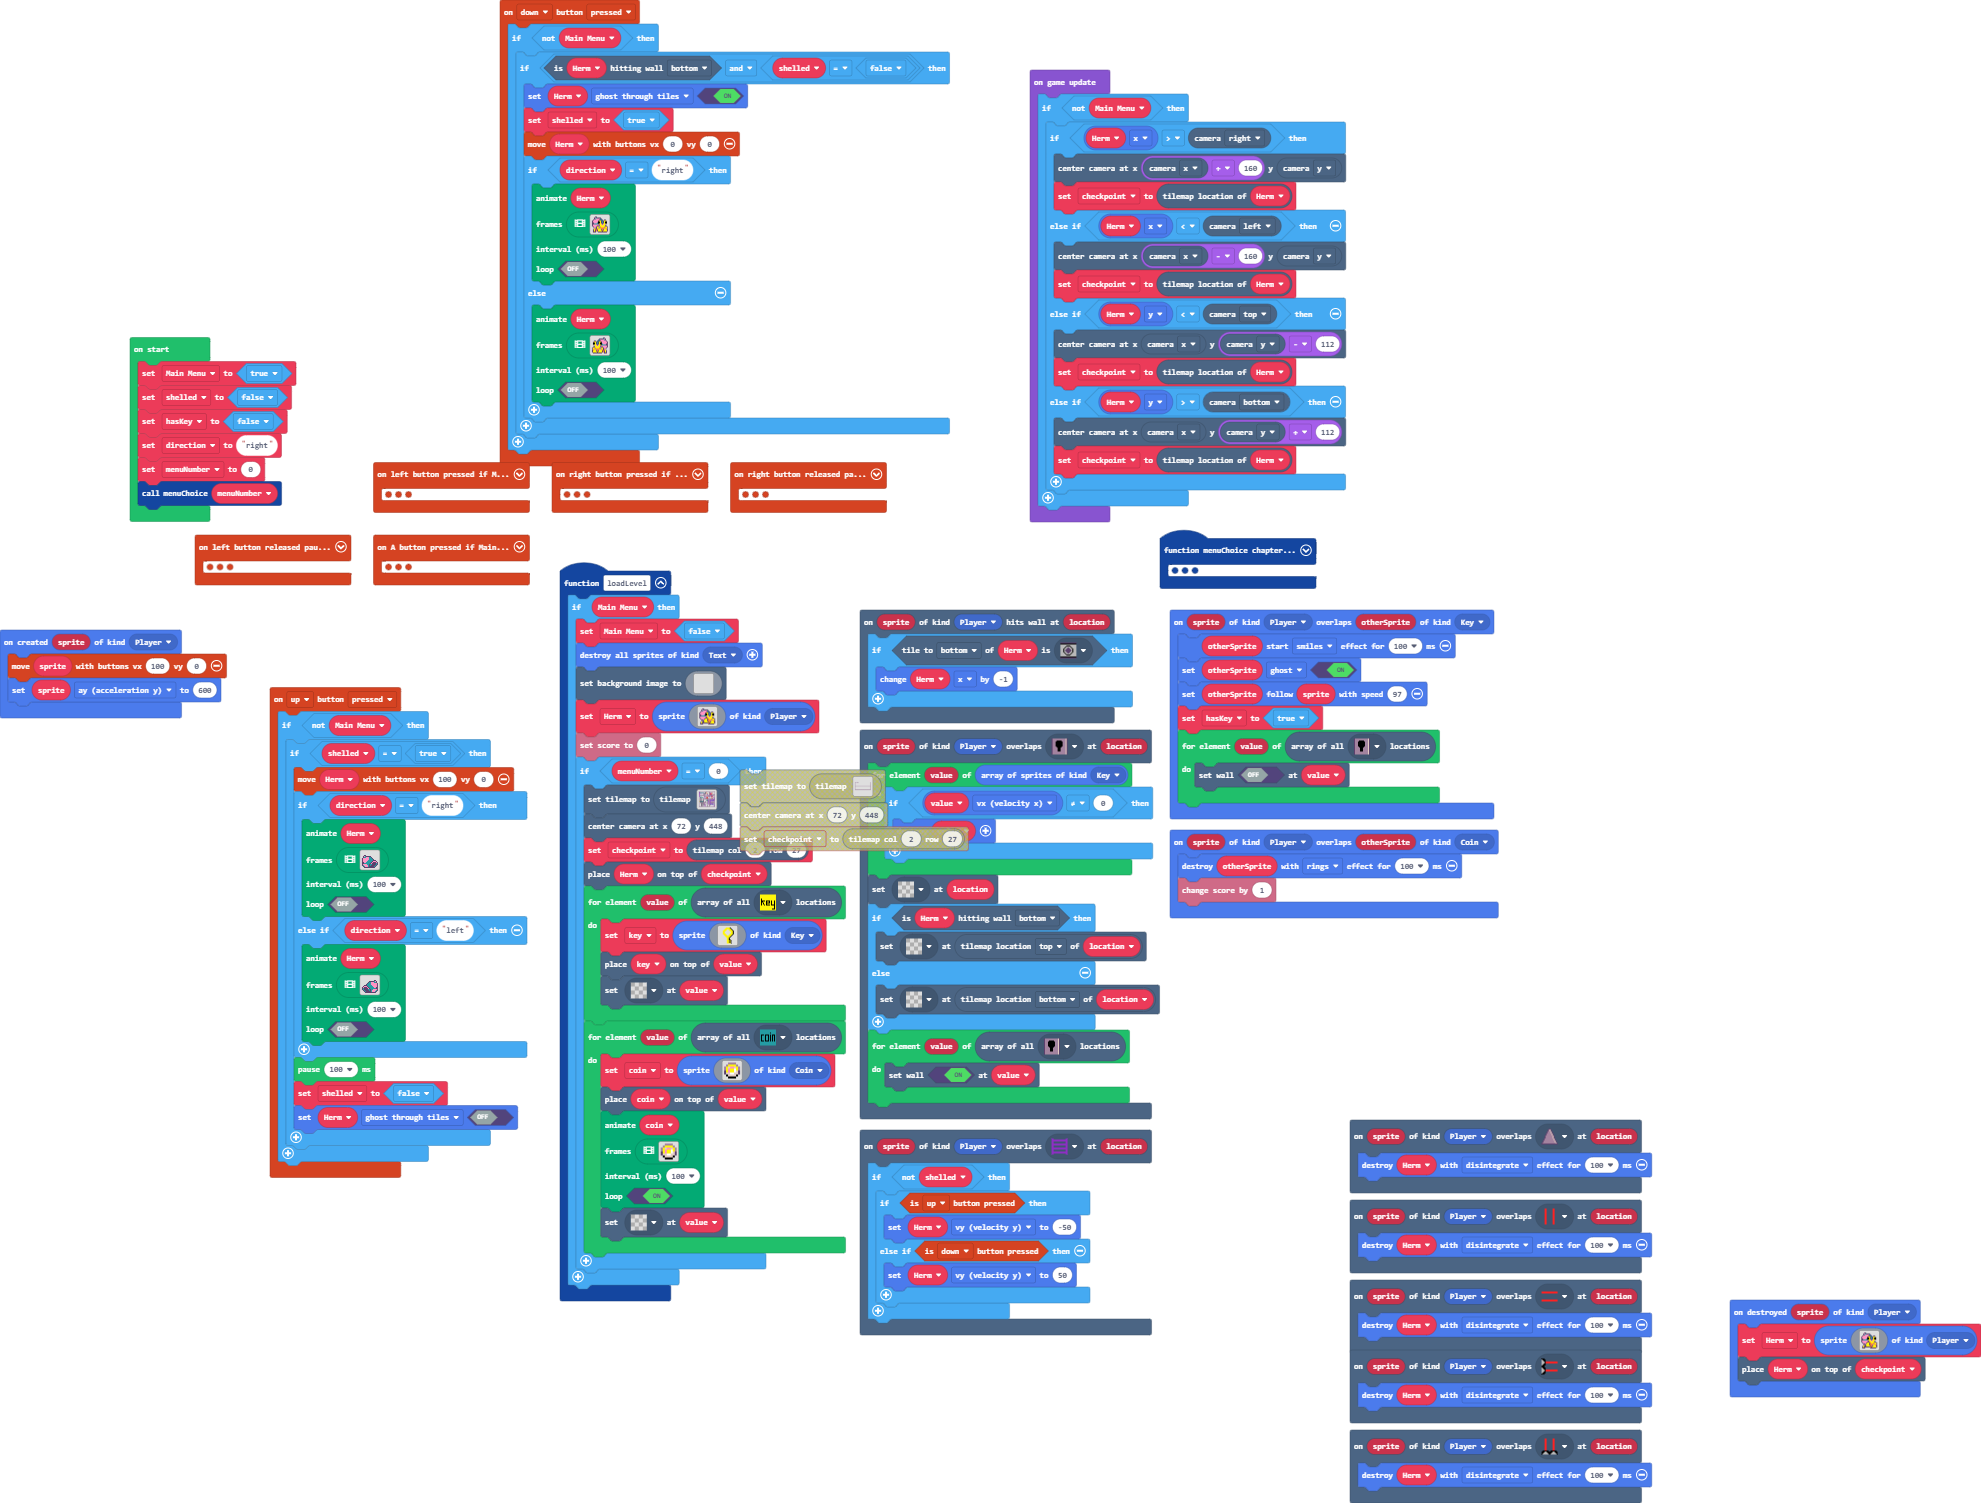
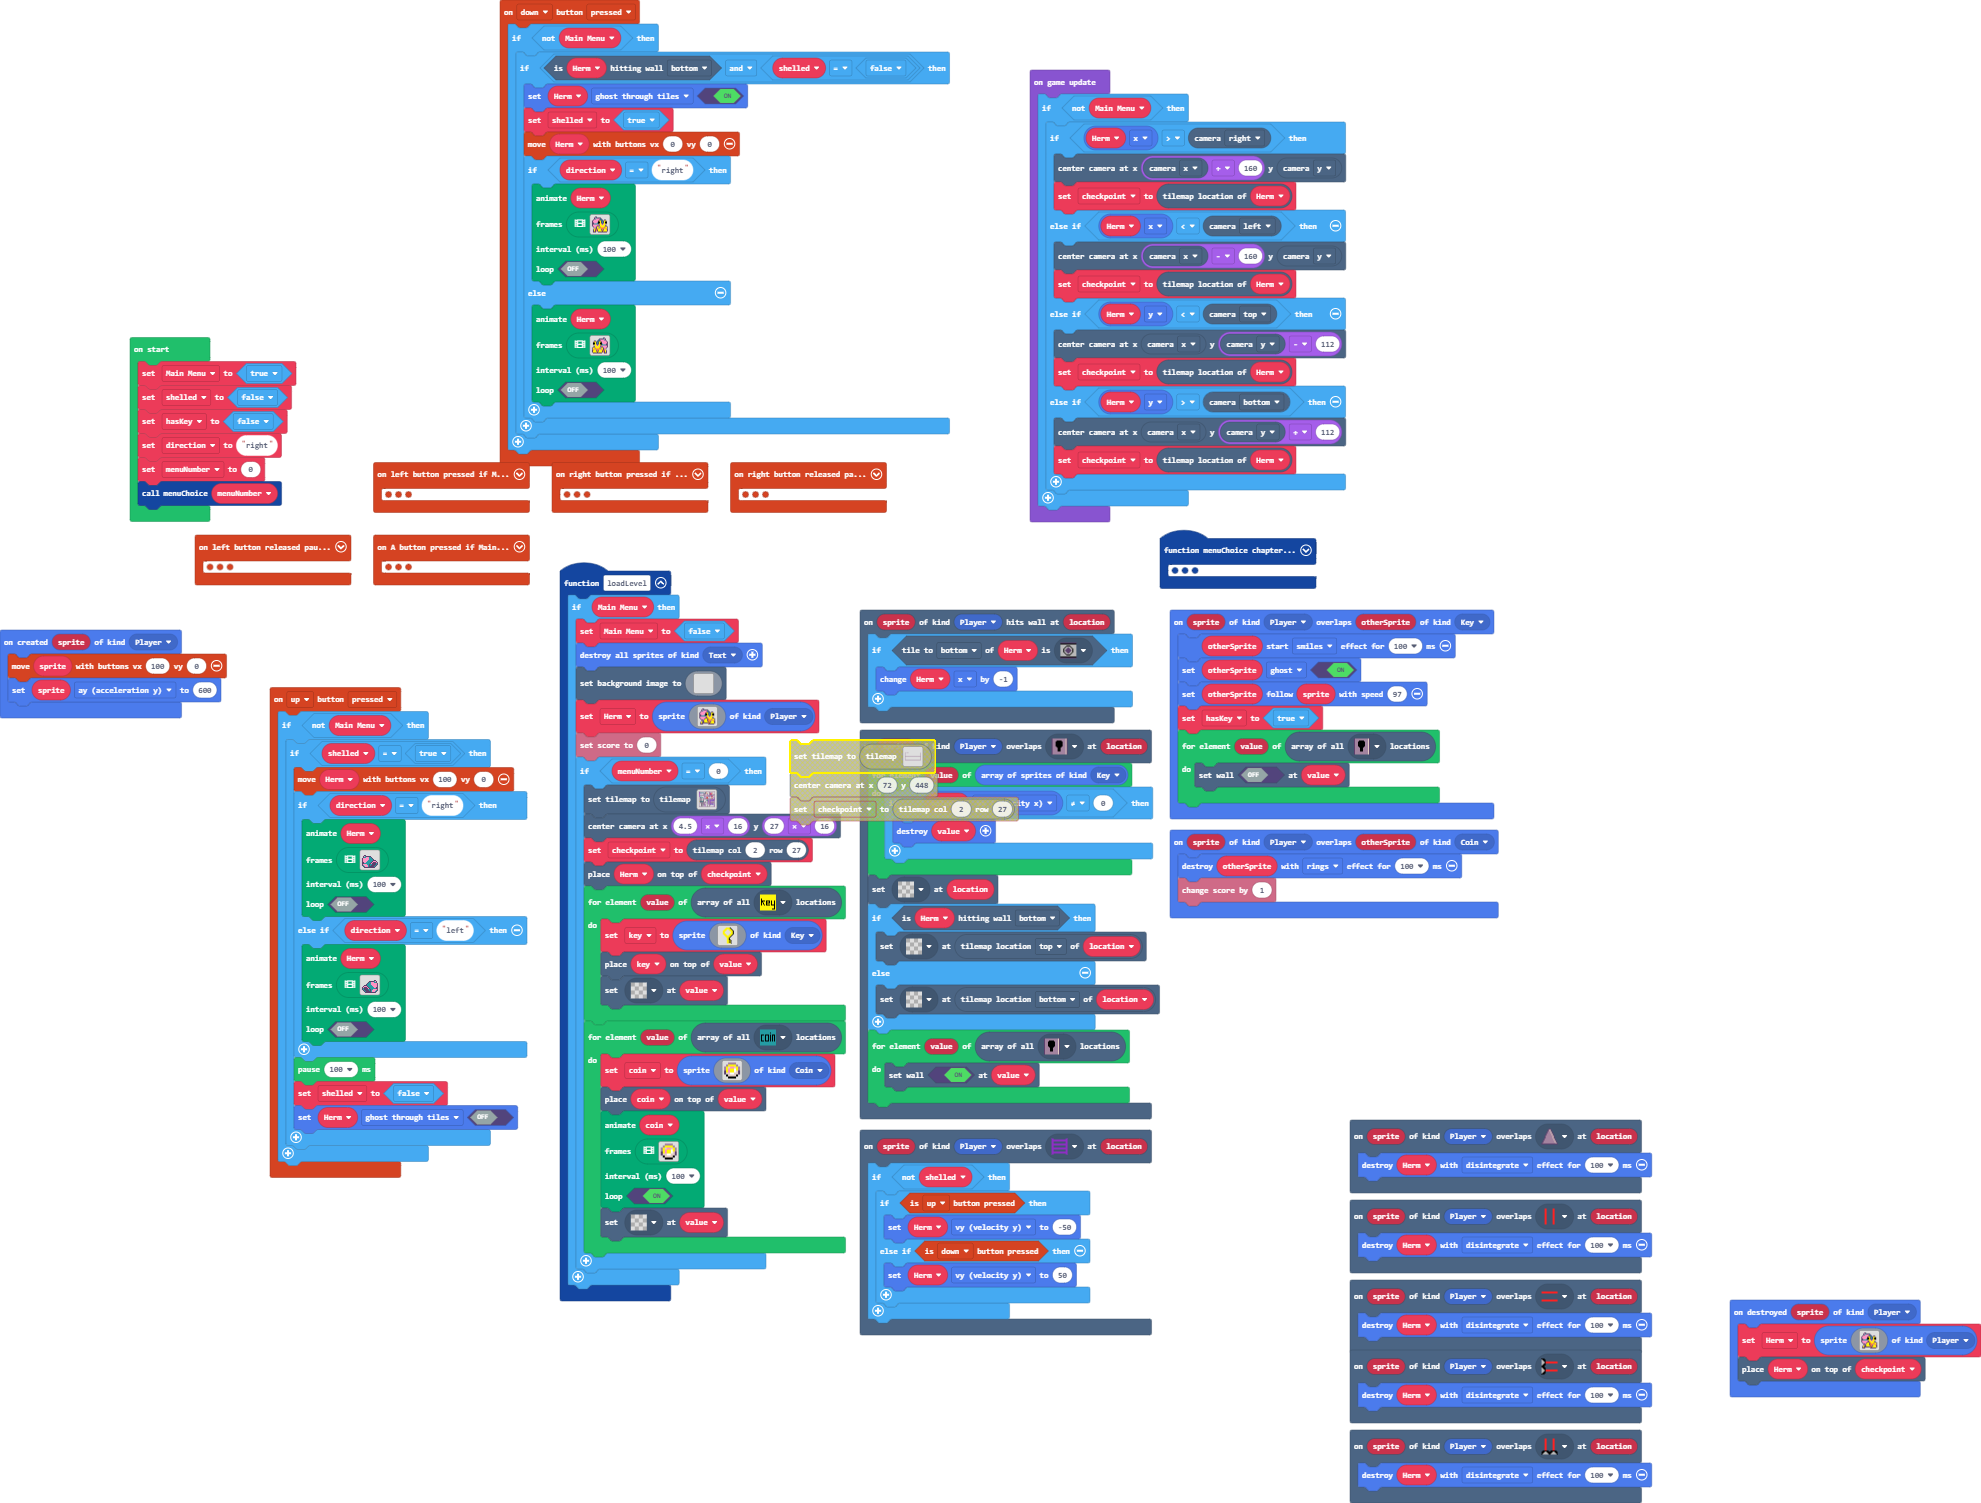
Update main.blocks, main.ts

Changed region(s): [[0.3387, 0.4897, 0.5235, 0.5815]]

diff --git a/main.ts b/main.ts
@@ -646,7 +646,7 @@ function loadLevel () {
         info.setScore(0)
         if (menuNumber == 0) {
             tiles.setCurrentTilemap(tilemap`level2`)
-            scene.centerCameraAt(72, 448)
+            scene.centerCameraAt(4.5 * 16, 27 * 16)
             checkpoint = tiles.getTileLocation(2, 27)
             tiles.placeOnTile(Herm, checkpoint)
             for (let value of tiles.getTilesByType(assets.tile`myTile2`)) {
